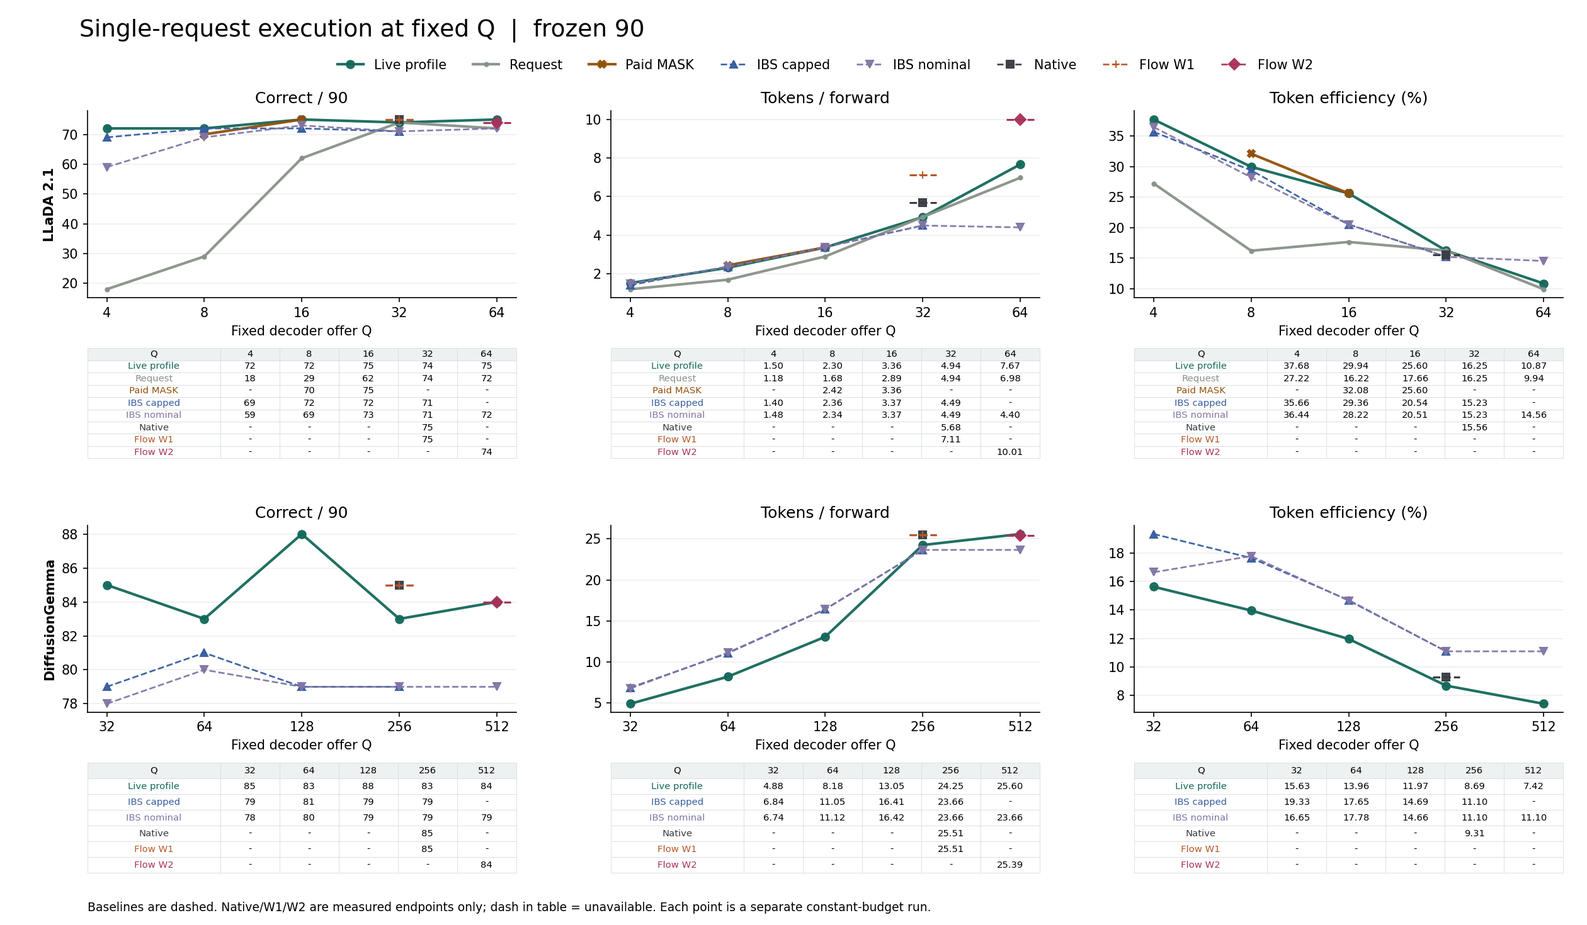
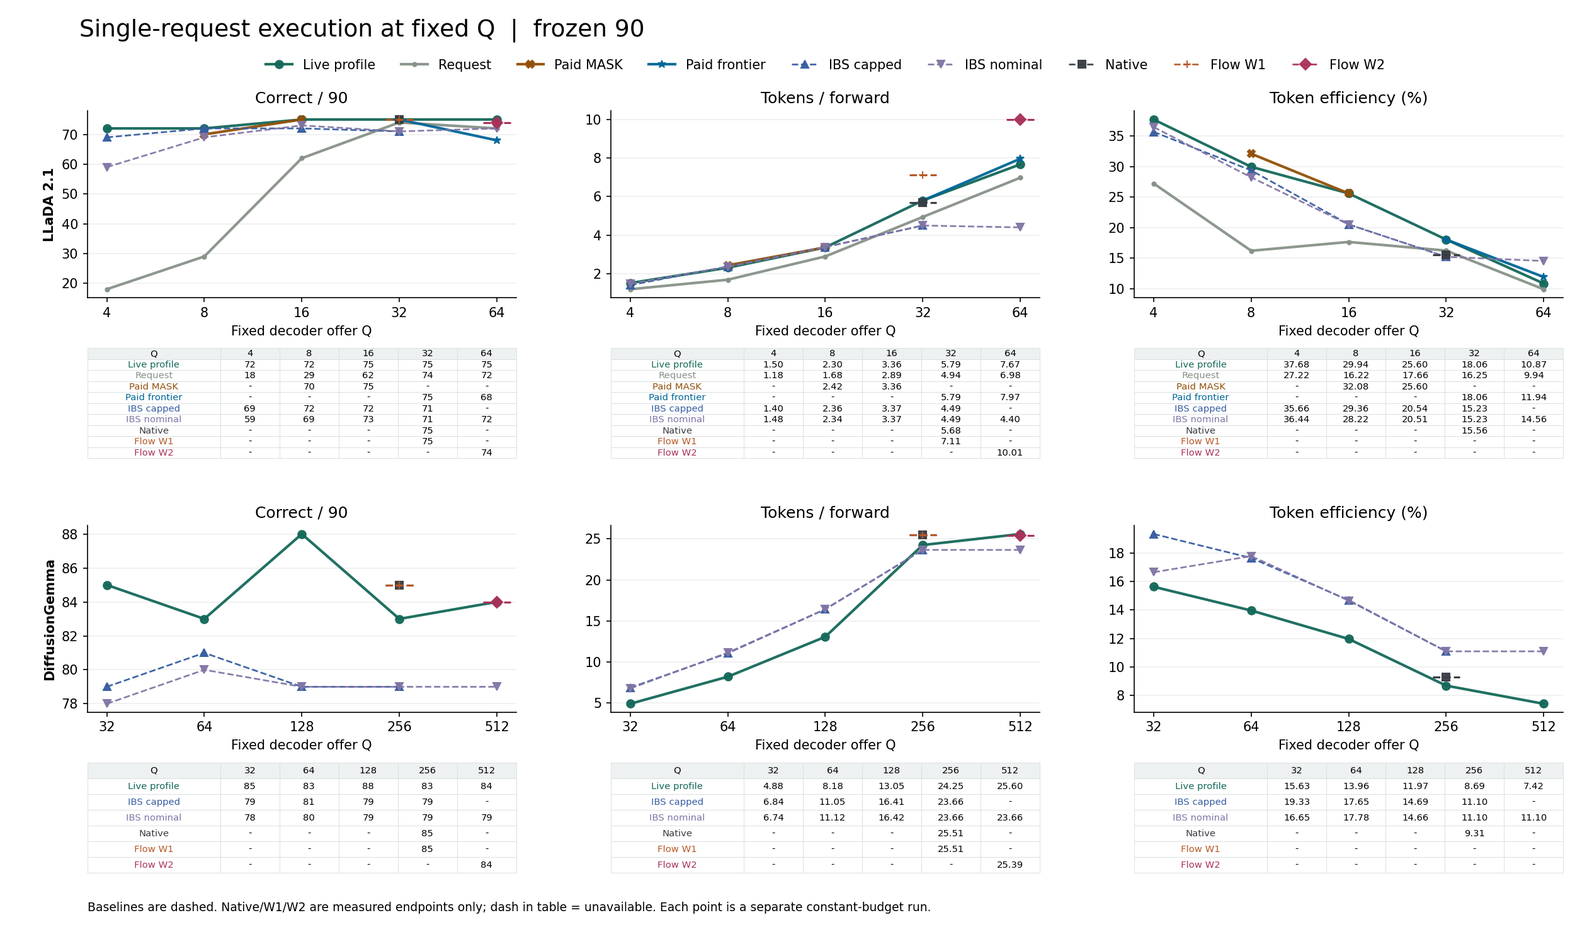
Qualify Q32 frontier request across five offers and refresh frozen90 comparison

diff --git a/experiments/t2t/serving_slots/fixed_request_comparison.py b/experiments/t2t/serving_slots/fixed_request_comparison.py
@@ -162,12 +162,27 @@ def collect():
                     raise ValueError("A4 replay does not reproduce fixed A5 reference")
             else:
                 add("llada21",c,16,"Paid MASK",len(part),values["correct"],macro,values["N"],values["F"],values["Q"],name)
+    for q in (32,64):
+        name=f"llada-paid-head/q{q}-frontier-frozen90.json"
+        full=json.loads((ROOT/name).read_bytes())
+        if (full["finished"]!=90 or full["registration"]["q"]!=q or
+                full["registration"].get("scope","all")!="all"):
+            raise ValueError("Expected a complete all-state frontier comparison")
+        for c,v in full["cohorts"].items():
+            ref=rows["llada21",c,q,"Request" if q==32 else "Paid repeat"]
+            old,r=v["old"],v["frontier"]
+            if (any(old[k]!=ref[rk] for k,rk in (("correct","correct"),("F","F"),("N","N"),("Q","history_Q"))) or
+                    old["correct"]+v["rescued"]-v["lost"]!=r["correct"] or r["failed"] or
+                    not isclose(r["TE"],r["N"]/r["Q"])):
+                raise ValueError("Unmatched frontier control or invalid bill")
+            add("llada21",c,q,"Paid frontier",v["n"],r["correct"],r["macro_TPF"],r["N"],r["F"],r["Q"],name)
     # The handle dispatches to these fixed paths by construction. The switch
     # receipts qualify that dispatch, not the quality of a mixed-offer path.
-    qual=json.loads((ROOT/"strict-handle/llada-quarter-window-repeat64-paid16.json").read_bytes())
-    arms={4:"Active window",8:"Active window",16:"Paid MASK",32:"Request",64:"Paid repeat"}
-    if (qual["profile"]!="quarter_window_repeat64_paid16" or qual["indices"]!=[0,10,20]
+    qual=json.loads((ROOT/"strict-handle/llada-frontier32/report.json").read_bytes())
+    arms={4:"Active window",8:"Active window",16:"Paid MASK",32:"Paid frontier",64:"Paid repeat"}
+    if (qual["profile"]!="quarter_window_repeat64_paid16_frontier32" or qual["indices"]!=[0,10,20]
             or any(qual["arms"][f"fixed{q}"]["exact_replays"]!=3 for q in arms)
+            or not qual["arms"]["switch25"]["policy_checks"].get("frontier32_rows")
             or len(qual["arms"]["switch25"]["directed_pairs"])!=25):
         raise ValueError("Live profile has no fixed-path and switching qualification")
     for model,tiers in MODELS.items():
@@ -227,11 +242,12 @@ def render(rows):
            "90-case budgets. `Paid MASK` samples the already-projected waiting MASKs on mixed cold calls "
            "(H800 Q8, A800 Q16). The H800 Q8 same-device control is 71/90; the A800 active-window "
            "point on the chart is 72/90, not that paired control. `Paid repeat` is only the measured Q64 consecutive-confirmation arm. "
-           "These are not a best-of combination or a mixed-offer run.","",
-           "**Live profile** = `quarter_window_repeat64_paid16` for LLaDA, "
+           "`Paid frontier` is the contiguous MASK acceptance experiment. Only its Q32 path is in the new live profile; "
+           "at Q64 it cost seven correct answers. The retired live reference at Q32 is still visible as `Request`.","",
+           "**Live profile** = `quarter_window_repeat64_paid16_frontier32` for LLaDA, "
            "`dense_stop_joint_verified_eos` for Gemma. Values are from the independent fixed90 "
            "runs implementing each exact path, not 90 reruns through the switching API. "
-           "LLaDA uses Active window at Q4/8, Paid MASK at Q16, the original Request at Q32, "
+           "LLaDA uses Active window at Q4/8, Paid MASK at Q16, Paid frontier at Q32, "
            "and Paid repeat at Q64. [Switching qualification](../strict-handle/README.md).","",
            "Each cell: **correct / macro TPF / token efficiency (%)**. Missed or unavailable metrics are `n/a`. "
            "The Q in the first column is a per-request decoder offer, not mean Q/F. "
@@ -243,7 +259,7 @@ def render(rows):
            "the native fixed-window IBS run is shown; it saturates at a single physical block. "
            "Contrasts with native/IBS/Flow are descriptive on the same frozen cases, sometimes on different GPUs. "
            "Differences are not claims of statistical significance.",""]
-    methods=("Live profile","Request","Active window","Paid MASK","Paid repeat","IBS capped","IBS nominal","Native","Flow W1","Flow W2")
+    methods=("Live profile","Request","Active window","Paid MASK","Paid repeat","Paid frontier","IBS capped","IBS nominal","Native","Flow W1","Flow W2")
     for c in ("frozen90","original30","new60"):
         lines+=[f"## {c}","",f"| Model | Q | {' | '.join(methods)} |","|---|---:|"+"---:|"*len(methods)]
         for model,tiers in MODELS.items():
@@ -275,7 +291,7 @@ def draw(rows):
     matplotlib.use("Agg")
     import matplotlib.pyplot as plt
     from math import nan
-    methods={"Live profile":("#146859","o"),"Request":("#879288","."),"Paid MASK":("#925008","X"),
+    methods={"Live profile":("#146859","o"),"Request":("#879288","."),"Paid MASK":("#925008","X"),"Paid frontier":("#006697","*"),
              "IBS capped":("#365da0","^"),"IBS nominal":("#8275a5","v"),
              "Native":("#393d43","s"),"Flow W1":("#b75827","+"),"Flow W2":("#aa3159","D")}
     fig,axes=plt.subplots(2,3,figsize=(16.8,9.8))
@@ -289,7 +305,7 @@ def draw(rows):
             ax.grid(axis="y",alpha=.2);ax.spines[["right","top"]].set_visible(False)
             cells=[]; colors=[]
             for name,(color,marker) in methods.items():
-                if name in ("Request","Paid MASK") and model!="llada21":continue
+                if name in ("Request","Paid MASK","Paid frontier") and model!="llada21":continue
                 colors.append(color)
                 vals={r["budget"]:r[metric] for r in rows if
                       (r["cohort"],r["model"],r["method"])==("frozen90",model,name) and r[metric] is not None}
@@ -297,7 +313,7 @@ def draw(rows):
                              str(vals[q]) if metric=="correct" else f"{vals[q]*scale:.2f}" for q in tiers]])
                 if not vals:continue
                 x=list(range(5));y=[vals.get(q,nan)*scale for q in tiers]
-                candidate=name in ("Request","Live profile","Paid MASK")
+                candidate=name in ("Request","Live profile","Paid MASK","Paid frontier")
                 line,=ax.plot(x,y,color=color,marker=marker,linestyle="-" if candidate else "--",
                               lw=2 if candidate else 1.3,ms=6,alpha=.95)
                 handles[name]=line

diff --git a/tests/test_fixed_request_comparison.py b/tests/test_fixed_request_comparison.py
@@ -45,7 +45,7 @@ def test_live_series_matches_named_dispatch_not_best_per_metric():
     for model,c,q,name in at:
         if name!="Live profile":
             continue
-        arm={4:"Active window",8:"Active window",16:"Paid MASK",32:"Request",64:"Paid repeat"}[q] if model=="llada21" else "Request"
+        arm={4:"Active window",8:"Active window",16:"Paid MASK",32:"Paid frontier",64:"Paid repeat"}[q] if model=="llada21" else "Request"
         assert at[model,c,q,name]=={**at[model,c,q,arm],"method":name}
     assert len([r for r in rows if r["method"]=="Live profile"])==30
 
@@ -57,3 +57,11 @@ def test_tradeoffs_compare_the_same_named_baseline_without_pooling_subgroups():
     row=next(s for s in table.splitlines() if s.startswith("| llada21 | 4 | IBS capped"))
     assert "| +2 / +1 / +3 |" in row and row.endswith("yes / yes / yes |")
     assert table.count("| IBS capped |")==8 and table.count("| Flow W2 |")==2
+
+
+def test_contiguous_frontier_reports_negative_top_result_alongside_q32():
+    results=collect()
+    selected={r["budget"]:r for r in results if r["cohort"]=="frozen90" and r["method"]=="Paid frontier"}
+    assert set(selected)=={32,64}
+    assert [selected[q]["correct"] for q in (32,64)]==[75,68]
+    assert selected[32]["history_Q"]==231667

diff --git a/experiments/t2t/serving_slots/controls/fixed-request-comparison/README.md b/experiments/t2t/serving_slots/controls/fixed-request-comparison/README.md
@@ -1,8 +1,8 @@
 # Fixed offers: published requests versus measured baselines
 
-One independent request at the same offer from prompt to final output. `Request` means `quarter_edit_warm` for LLaDA and `dense_stop_joint_verified_eos` for Gemma. They are not the best trial chosen separately at each point. `Active window` is the low-offer fixed head-only arm of the qualified LLaDA `quarter_edit_window` handle. It is shown only at independently measured, sealed 90-case budgets. `Paid MASK` samples the already-projected waiting MASKs on mixed cold calls (H800 Q8, A800 Q16). The H800 Q8 same-device control is 71/90; the A800 active-window point on the chart is 72/90, not that paired control. `Paid repeat` is only the measured Q64 consecutive-confirmation arm. These are not a best-of combination or a mixed-offer run.
+One independent request at the same offer from prompt to final output. `Request` means `quarter_edit_warm` for LLaDA and `dense_stop_joint_verified_eos` for Gemma. They are not the best trial chosen separately at each point. `Active window` is the low-offer fixed head-only arm of the qualified LLaDA `quarter_edit_window` handle. It is shown only at independently measured, sealed 90-case budgets. `Paid MASK` samples the already-projected waiting MASKs on mixed cold calls (H800 Q8, A800 Q16). The H800 Q8 same-device control is 71/90; the A800 active-window point on the chart is 72/90, not that paired control. `Paid repeat` is only the measured Q64 consecutive-confirmation arm. `Paid frontier` is the contiguous MASK acceptance experiment. Only its Q32 path is in the new live profile; at Q64 it cost seven correct answers. The retired live reference at Q32 is still visible as `Request`.
 
-**Live profile** = `quarter_window_repeat64_paid16` for LLaDA, `dense_stop_joint_verified_eos` for Gemma. Values are from the independent fixed90 runs implementing each exact path, not 90 reruns through the switching API. LLaDA uses Active window at Q4/8, Paid MASK at Q16, the original Request at Q32, and Paid repeat at Q64. [Switching qualification](../strict-handle/README.md).
+**Live profile** = `quarter_window_repeat64_paid16_frontier32` for LLaDA, `dense_stop_joint_verified_eos` for Gemma. Values are from the independent fixed90 runs implementing each exact path, not 90 reruns through the switching API. LLaDA uses Active window at Q4/8, Paid MASK at Q16, Paid frontier at Q32, and Paid repeat at Q64. [Switching qualification](../strict-handle/README.md).
 
 Each cell: **correct / macro TPF / token efficiency (%)**. Missed or unavailable metrics are `n/a`. The Q in the first column is a per-request decoder offer, not mean Q/F. Native and Flow are shown only at their actual block-size endpoints.
 
@@ -10,47 +10,47 @@ TPF averages per-request final nonspecial N / all post-prefill F (including Gemm
 
 ## frozen90
 
-| Model | Q | Live profile | Request | Active window | Paid MASK | Paid repeat | IBS capped | IBS nominal | Native | Flow W1 | Flow W2 |
-|---|---:|---:|---:|---:|---:|---:|---:|---:|---:|---:|---:|
-| llada21 | 4 | 72/90 / 1.504 / 37.68% | 18/90 / 1.182 / 27.22% | 72/90 / 1.504 / 37.68% | - | - | 69/90 / 1.395 / 35.66% | 59/90 / 1.477 / 36.44% | - | - | - |
-| llada21 | 8 | 72/90 / 2.300 / 29.94% | 29/90 / 1.677 / 16.22% | 72/90 / 2.300 / 29.94% | 70/90 / 2.424 / 32.08% | - | 72/90 / 2.364 / 29.36% | 69/90 / 2.341 / 28.22% | - | - | - |
-| llada21 | 16 | 75/90 / 3.356 / 25.60% | 62/90 / 2.887 / 17.66% | 70/90 / 2.933 / 21.05% | 75/90 / 3.356 / 25.60% | - | 72/90 / 3.375 / 20.54% | 73/90 / 3.371 / 20.51% | - | - | - |
-| llada21 | 32 | 74/90 / 4.937 / 16.25% | 74/90 / 4.937 / 16.25% | - | - | - | 71/90 / 4.495 / 15.23% | 71/90 / 4.495 / 15.23% | 75/90 / 5.677 / 15.56% | 75/90 / 7.111 / n/a | - |
-| llada21 | 64 | 75/90 / 7.672 / 10.87% | 72/90 / 6.979 / 9.94% | - | - | 75/90 / 7.672 / 10.87% | - | 72/90 / 4.397 / 14.56% | - | - | 74/90 / 10.006 / n/a |
-| gemma | 32 | 85/90 / 4.879 / 15.63% | 85/90 / 4.879 / 15.63% | - | - | - | 79/90 / 6.840 / 19.33% | 78/90 / 6.743 / 16.65% | - | - | - |
-| gemma | 64 | 83/90 / 8.176 / 13.96% | 83/90 / 8.176 / 13.96% | - | - | - | 81/90 / 11.050 / 17.65% | 80/90 / 11.116 / 17.78% | - | - | - |
-| gemma | 128 | 88/90 / 13.047 / 11.97% | 88/90 / 13.047 / 11.97% | - | - | - | 79/90 / 16.408 / 14.69% | 79/90 / 16.418 / 14.66% | - | - | - |
-| gemma | 256 | 83/90 / 24.252 / 8.69% | 83/90 / 24.252 / 8.69% | - | - | - | 79/90 / 23.656 / 11.10% | 79/90 / 23.656 / 11.10% | 85/90 / 25.510 / 9.31% | 85/90 / 25.510 / n/a | - |
-| gemma | 512 | 84/90 / 25.596 / 7.42% | 84/90 / 25.596 / 7.42% | - | - | - | - | 79/90 / 23.656 / 11.10% | - | - | 84/90 / 25.390 / n/a |
+| Model | Q | Live profile | Request | Active window | Paid MASK | Paid repeat | Paid frontier | IBS capped | IBS nominal | Native | Flow W1 | Flow W2 |
+|---|---:|---:|---:|---:|---:|---:|---:|---:|---:|---:|---:|---:|
+| llada21 | 4 | 72/90 / 1.504 / 37.68% | 18/90 / 1.182 / 27.22% | 72/90 / 1.504 / 37.68% | - | - | - | 69/90 / 1.395 / 35.66% | 59/90 / 1.477 / 36.44% | - | - | - |
+| llada21 | 8 | 72/90 / 2.300 / 29.94% | 29/90 / 1.677 / 16.22% | 72/90 / 2.300 / 29.94% | 70/90 / 2.424 / 32.08% | - | - | 72/90 / 2.364 / 29.36% | 69/90 / 2.341 / 28.22% | - | - | - |
+| llada21 | 16 | 75/90 / 3.356 / 25.60% | 62/90 / 2.887 / 17.66% | 70/90 / 2.933 / 21.05% | 75/90 / 3.356 / 25.60% | - | - | 72/90 / 3.375 / 20.54% | 73/90 / 3.371 / 20.51% | - | - | - |
+| llada21 | 32 | 75/90 / 5.793 / 18.06% | 74/90 / 4.937 / 16.25% | - | - | - | 75/90 / 5.793 / 18.06% | 71/90 / 4.495 / 15.23% | 71/90 / 4.495 / 15.23% | 75/90 / 5.677 / 15.56% | 75/90 / 7.111 / n/a | - |
+| llada21 | 64 | 75/90 / 7.672 / 10.87% | 72/90 / 6.979 / 9.94% | - | - | 75/90 / 7.672 / 10.87% | 68/90 / 7.966 / 11.94% | - | 72/90 / 4.397 / 14.56% | - | - | 74/90 / 10.006 / n/a |
+| gemma | 32 | 85/90 / 4.879 / 15.63% | 85/90 / 4.879 / 15.63% | - | - | - | - | 79/90 / 6.840 / 19.33% | 78/90 / 6.743 / 16.65% | - | - | - |
+| gemma | 64 | 83/90 / 8.176 / 13.96% | 83/90 / 8.176 / 13.96% | - | - | - | - | 81/90 / 11.050 / 17.65% | 80/90 / 11.116 / 17.78% | - | - | - |
+| gemma | 128 | 88/90 / 13.047 / 11.97% | 88/90 / 13.047 / 11.97% | - | - | - | - | 79/90 / 16.408 / 14.69% | 79/90 / 16.418 / 14.66% | - | - | - |
+| gemma | 256 | 83/90 / 24.252 / 8.69% | 83/90 / 24.252 / 8.69% | - | - | - | - | 79/90 / 23.656 / 11.10% | 79/90 / 23.656 / 11.10% | 85/90 / 25.510 / 9.31% | 85/90 / 25.510 / n/a | - |
+| gemma | 512 | 84/90 / 25.596 / 7.42% | 84/90 / 25.596 / 7.42% | - | - | - | - | - | 79/90 / 23.656 / 11.10% | - | - | 84/90 / 25.390 / n/a |
 
 ## original30
 
-| Model | Q | Live profile | Request | Active window | Paid MASK | Paid repeat | IBS capped | IBS nominal | Native | Flow W1 | Flow W2 |
-|---|---:|---:|---:|---:|---:|---:|---:|---:|---:|---:|---:|
-| llada21 | 4 | 25/30 / 1.489 / 37.45% | 8/30 / 1.196 / 27.19% | 25/30 / 1.489 / 37.45% | - | - | 23/30 / 1.382 / 33.42% | 18/30 / 1.434 / 36.02% | - | - | - |
-| llada21 | 8 | 24/30 / 2.210 / 29.32% | 9/30 / 1.528 / 15.70% | 24/30 / 2.210 / 29.32% | 24/30 / 2.326 / 30.93% | - | 25/30 / 2.265 / 28.36% | 23/30 / 2.293 / 26.99% | - | - | - |
-| llada21 | 16 | 25/30 / 3.183 / 23.00% | 20/30 / 2.769 / 17.31% | 21/30 / 2.799 / 20.47% | 25/30 / 3.183 / 23.00% | - | 23/30 / 3.189 / 19.32% | 24/30 / 3.173 / 19.90% | - | - | - |
-| llada21 | 32 | 26/30 / 4.811 / 15.31% | 26/30 / 4.811 / 15.31% | - | - | - | 25/30 / 4.271 / 13.34% | 25/30 / 4.271 / 13.34% | 26/30 / 5.728 / 15.55% | 26/30 / 7.042 / n/a | - |
-| llada21 | 64 | 28/30 / 7.271 / 10.83% | 25/30 / 6.387 / 9.09% | - | - | 28/30 / 7.271 / 10.83% | - | 24/30 / 4.228 / 13.74% | - | - | 23/30 / 9.721 / n/a |
-| gemma | 32 | 29/30 / 4.832 / 15.34% | 29/30 / 4.832 / 15.34% | - | - | - | 28/30 / 6.745 / 20.20% | 27/30 / 6.872 / 20.06% | - | - | - |
-| gemma | 64 | 29/30 / 8.030 / 13.62% | 29/30 / 8.030 / 13.62% | - | - | - | 28/30 / 10.918 / 15.55% | 29/30 / 11.007 / 17.24% | - | - | - |
-| gemma | 128 | 30/30 / 12.424 / 11.44% | 30/30 / 12.424 / 11.44% | - | - | - | 25/30 / 16.470 / 14.33% | 25/30 / 16.471 / 14.28% | - | - | - |
-| gemma | 256 | 28/30 / 23.259 / 8.06% | 28/30 / 23.259 / 8.06% | - | - | - | 27/30 / 23.045 / 9.74% | 27/30 / 23.045 / 9.74% | 28/30 / 24.284 / 8.87% | 28/30 / 24.284 / n/a | - |
-| gemma | 512 | 28/30 / 24.923 / 7.36% | 28/30 / 24.923 / 7.36% | - | - | - | - | 27/30 / 23.045 / 9.74% | - | - | 29/30 / 23.893 / n/a |
+| Model | Q | Live profile | Request | Active window | Paid MASK | Paid repeat | Paid frontier | IBS capped | IBS nominal | Native | Flow W1 | Flow W2 |
+|---|---:|---:|---:|---:|---:|---:|---:|---:|---:|---:|---:|---:|
+| llada21 | 4 | 25/30 / 1.489 / 37.45% | 8/30 / 1.196 / 27.19% | 25/30 / 1.489 / 37.45% | - | - | - | 23/30 / 1.382 / 33.42% | 18/30 / 1.434 / 36.02% | - | - | - |
+| llada21 | 8 | 24/30 / 2.210 / 29.32% | 9/30 / 1.528 / 15.70% | 24/30 / 2.210 / 29.32% | 24/30 / 2.326 / 30.93% | - | - | 25/30 / 2.265 / 28.36% | 23/30 / 2.293 / 26.99% | - | - | - |
+| llada21 | 16 | 25/30 / 3.183 / 23.00% | 20/30 / 2.769 / 17.31% | 21/30 / 2.799 / 20.47% | 25/30 / 3.183 / 23.00% | - | - | 23/30 / 3.189 / 19.32% | 24/30 / 3.173 / 19.90% | - | - | - |
+| llada21 | 32 | 26/30 / 5.637 / 17.65% | 26/30 / 4.811 / 15.31% | - | - | - | 26/30 / 5.637 / 17.65% | 25/30 / 4.271 / 13.34% | 25/30 / 4.271 / 13.34% | 26/30 / 5.728 / 15.55% | 26/30 / 7.042 / n/a | - |
+| llada21 | 64 | 28/30 / 7.271 / 10.83% | 25/30 / 6.387 / 9.09% | - | - | 28/30 / 7.271 / 10.83% | 24/30 / 7.672 / 11.99% | - | 24/30 / 4.228 / 13.74% | - | - | 23/30 / 9.721 / n/a |
+| gemma | 32 | 29/30 / 4.832 / 15.34% | 29/30 / 4.832 / 15.34% | - | - | - | - | 28/30 / 6.745 / 20.20% | 27/30 / 6.872 / 20.06% | - | - | - |
+| gemma | 64 | 29/30 / 8.030 / 13.62% | 29/30 / 8.030 / 13.62% | - | - | - | - | 28/30 / 10.918 / 15.55% | 29/30 / 11.007 / 17.24% | - | - | - |
+| gemma | 128 | 30/30 / 12.424 / 11.44% | 30/30 / 12.424 / 11.44% | - | - | - | - | 25/30 / 16.470 / 14.33% | 25/30 / 16.471 / 14.28% | - | - | - |
+| gemma | 256 | 28/30 / 23.259 / 8.06% | 28/30 / 23.259 / 8.06% | - | - | - | - | 27/30 / 23.045 / 9.74% | 27/30 / 23.045 / 9.74% | 28/30 / 24.284 / 8.87% | 28/30 / 24.284 / n/a | - |
+| gemma | 512 | 28/30 / 24.923 / 7.36% | 28/30 / 24.923 / 7.36% | - | - | - | - | - | 27/30 / 23.045 / 9.74% | - | - | 29/30 / 23.893 / n/a |
 
 ## new60
 
-| Model | Q | Live profile | Request | Active window | Paid MASK | Paid repeat | IBS capped | IBS nominal | Native | Flow W1 | Flow W2 |
-|---|---:|---:|---:|---:|---:|---:|---:|---:|---:|---:|---:|
-| llada21 | 4 | 47/60 / 1.511 / 37.79% | 10/60 / 1.176 / 27.23% | 47/60 / 1.511 / 37.79% | - | - | 46/60 / 1.402 / 36.70% | 41/60 / 1.499 / 36.65% | - | - | - |
-| llada21 | 8 | 48/60 / 2.345 / 30.26% | 20/60 / 1.751 / 16.58% | 48/60 / 2.345 / 30.26% | 46/60 / 2.474 / 32.74% | - | 47/60 / 2.414 / 29.87% | 46/60 / 2.366 / 28.96% | - | - | - |
-| llada21 | 16 | 50/60 / 3.443 / 27.21% | 42/60 / 2.946 / 17.84% | 49/60 / 2.999 / 21.34% | 50/60 / 3.443 / 27.21% | - | 49/60 / 3.468 / 21.17% | 49/60 / 3.470 / 20.83% | - | - | - |
-| llada21 | 32 | 48/60 / 4.999 / 16.77% | 48/60 / 4.999 / 16.77% | - | - | - | 46/60 / 4.607 / 16.48% | 46/60 / 4.607 / 16.48% | 49/60 / 5.652 / 15.56% | 49/60 / 7.146 / n/a | - |
-| llada21 | 64 | 47/60 / 7.873 / 10.89% | 47/60 / 7.275 / 10.40% | - | - | 47/60 / 7.873 / 10.89% | - | 48/60 / 4.481 / 15.02% | - | - | 51/60 / 10.149 / n/a |
-| gemma | 32 | 56/60 / 4.902 / 15.77% | 56/60 / 4.902 / 15.77% | - | - | - | 51/60 / 6.888 / 19.02% | 51/60 / 6.678 / 15.46% | - | - | - |
-| gemma | 64 | 54/60 / 8.249 / 14.13% | 54/60 / 8.249 / 14.13% | - | - | - | 53/60 / 11.116 / 19.07% | 51/60 / 11.170 / 18.05% | - | - | - |
-| gemma | 128 | 58/60 / 13.359 / 12.23% | 58/60 / 13.359 / 12.23% | - | - | - | 54/60 / 16.377 / 14.88% | 54/60 / 16.392 / 14.85% | - | - | - |
-| gemma | 256 | 55/60 / 24.749 / 9.01% | 55/60 / 24.749 / 9.01% | - | - | - | 52/60 / 23.961 / 11.85% | 52/60 / 23.961 / 11.85% | 57/60 / 26.123 / 9.52% | 57/60 / 26.123 / n/a | - |
-| gemma | 512 | 56/60 / 25.932 / 7.44% | 56/60 / 25.932 / 7.44% | - | - | - | - | 52/60 / 23.961 / 11.85% | - | - | 55/60 / 26.139 / n/a |
+| Model | Q | Live profile | Request | Active window | Paid MASK | Paid repeat | Paid frontier | IBS capped | IBS nominal | Native | Flow W1 | Flow W2 |
+|---|---:|---:|---:|---:|---:|---:|---:|---:|---:|---:|---:|---:|
+| llada21 | 4 | 47/60 / 1.511 / 37.79% | 10/60 / 1.176 / 27.23% | 47/60 / 1.511 / 37.79% | - | - | - | 46/60 / 1.402 / 36.70% | 41/60 / 1.499 / 36.65% | - | - | - |
+| llada21 | 8 | 48/60 / 2.345 / 30.26% | 20/60 / 1.751 / 16.58% | 48/60 / 2.345 / 30.26% | 46/60 / 2.474 / 32.74% | - | - | 47/60 / 2.414 / 29.87% | 46/60 / 2.366 / 28.96% | - | - | - |
+| llada21 | 16 | 50/60 / 3.443 / 27.21% | 42/60 / 2.946 / 17.84% | 49/60 / 2.999 / 21.34% | 50/60 / 3.443 / 27.21% | - | - | 49/60 / 3.468 / 21.17% | 49/60 / 3.470 / 20.83% | - | - | - |
+| llada21 | 32 | 49/60 / 5.871 / 18.27% | 48/60 / 4.999 / 16.77% | - | - | - | 49/60 / 5.871 / 18.27% | 46/60 / 4.607 / 16.48% | 46/60 / 4.607 / 16.48% | 49/60 / 5.652 / 15.56% | 49/60 / 7.146 / n/a | - |
+| llada21 | 64 | 47/60 / 7.873 / 10.89% | 47/60 / 7.275 / 10.40% | - | - | 47/60 / 7.873 / 10.89% | 44/60 / 8.113 / 11.91% | - | 48/60 / 4.481 / 15.02% | - | - | 51/60 / 10.149 / n/a |
+| gemma | 32 | 56/60 / 4.902 / 15.77% | 56/60 / 4.902 / 15.77% | - | - | - | - | 51/60 / 6.888 / 19.02% | 51/60 / 6.678 / 15.46% | - | - | - |
+| gemma | 64 | 54/60 / 8.249 / 14.13% | 54/60 / 8.249 / 14.13% | - | - | - | - | 53/60 / 11.116 / 19.07% | 51/60 / 11.170 / 18.05% | - | - | - |
+| gemma | 128 | 58/60 / 13.359 / 12.23% | 58/60 / 13.359 / 12.23% | - | - | - | - | 54/60 / 16.377 / 14.88% | 54/60 / 16.392 / 14.85% | - | - | - |
+| gemma | 256 | 55/60 / 24.749 / 9.01% | 55/60 / 24.749 / 9.01% | - | - | - | - | 52/60 / 23.961 / 11.85% | 52/60 / 23.961 / 11.85% | 57/60 / 26.123 / 9.52% | 57/60 / 26.123 / n/a | - |
+| gemma | 512 | 56/60 / 25.932 / 7.44% | 56/60 / 25.932 / 7.44% | - | - | - | - | - | 52/60 / 23.961 / 11.85% | - | - | 55/60 / 26.139 / n/a |
 
 [Same-offer deltas vs each baseline, including original30 and new60](tradeoffs.md). [Budget curves with numeric readouts](frozen90.png). [Numeric data and source paths](metrics.csv). [Lower-offer receipt manifest](llada-lower.json). Regenerate this table from the repository root with `python -m experiments.t2t.serving_slots.fixed_request_comparison`. Refresh only complete LLaDA lower-offer cohorts on the receipt host with `llada_fixed_lower_cohorts.py --q4 Q4_ROOT --cross CROSS_ROOT --manifest MANIFEST`.

diff --git a/experiments/t2t/serving_slots/controls/fixed-request-comparison/tradeoffs.md b/experiments/t2t/serving_slots/controls/fixed-request-comparison/tradeoffs.md
@@ -9,9 +9,9 @@ The deltas are live minus baseline, never vs a composite of different baselines.
 | llada21 | 4 | IBS capped | +2 / +1 / +3 | +0.107 / +0.109 / +0.109 | +2.02 | yes / yes / yes |
 | llada21 | 8 | IBS capped | -1 / +1 / +0 | -0.055 / -0.069 / -0.064 | +0.58 | no / no / no |
 | llada21 | 16 | IBS capped | +2 / +1 / +3 | -0.006 / -0.025 / -0.019 | +5.06 | no / no / no |
-| llada21 | 32 | IBS capped | +1 / +2 / +3 | +0.540 / +0.393 / +0.442 | +1.02 | yes / yes / yes |
-| llada21 | 32 | Native | +0 / -1 / -1 | -0.916 / -0.652 / -0.740 | +0.69 | no / no / no |
-| llada21 | 32 | Flow W1 | +0 / -1 / -1 | -2.231 / -2.146 / -2.175 | n/a | no / no / no |
+| llada21 | 32 | IBS capped | +1 / +3 / +4 | +1.366 / +1.264 / +1.298 | +2.82 | yes / yes / yes |
+| llada21 | 32 | Native | +0 / +0 / +0 | -0.091 / +0.219 / +0.116 | +2.50 | no / yes / yes |
+| llada21 | 32 | Flow W1 | +0 / +0 / +0 | -1.406 / -1.275 / -1.319 | n/a | no / no / no |
 | llada21 | 64 | Flow W2 | +5 / -4 / +1 | -2.450 / -2.276 / -2.334 | n/a | no / no / no |
 | gemma | 32 | IBS capped | +1 / +5 / +6 | -1.912 / -1.986 / -1.961 | -3.70 | no / no / no |
 | gemma | 64 | IBS capped | +1 / +1 / +2 | -2.888 / -2.867 / -2.874 | -3.69 | no / no / no |

diff --git a/experiments/t2t/serving_slots/controls/strict-handle/README.md b/experiments/t2t/serving_slots/controls/strict-handle/README.md
@@ -1,5 +1,13 @@
 # Can a single live request consume any of the five offers?
 
+**LLaDA Q32 frontier profile.** `quarter_window_repeat64_paid16_frontier32`
+passed [the A4 GPU qualification](llada-frontier32/report.json), 15/15 fixed
+replays on frozen #0/#10/#20 and all 25 directed offer transitions. The
+mixed cycle exercised 113 downshifts with debt, 15 parked rows paid on
+downshift and 34 actual extra Q32 admissions. All 24 compact [receipts](llada-frontier32/receipts)
+are archived. This verifies routing, repayment and output parity against the
+independent fixed routines, not mixed-budget accuracy.
+
 **Verified-EOS profile.** [Qualification receipt](gemma-verified-eos.json).
 Five fixed offers times three requests matched sealed reference outputs and bills.
 Twelve mixed executions matched the no-shortcut public handle on the same offer
